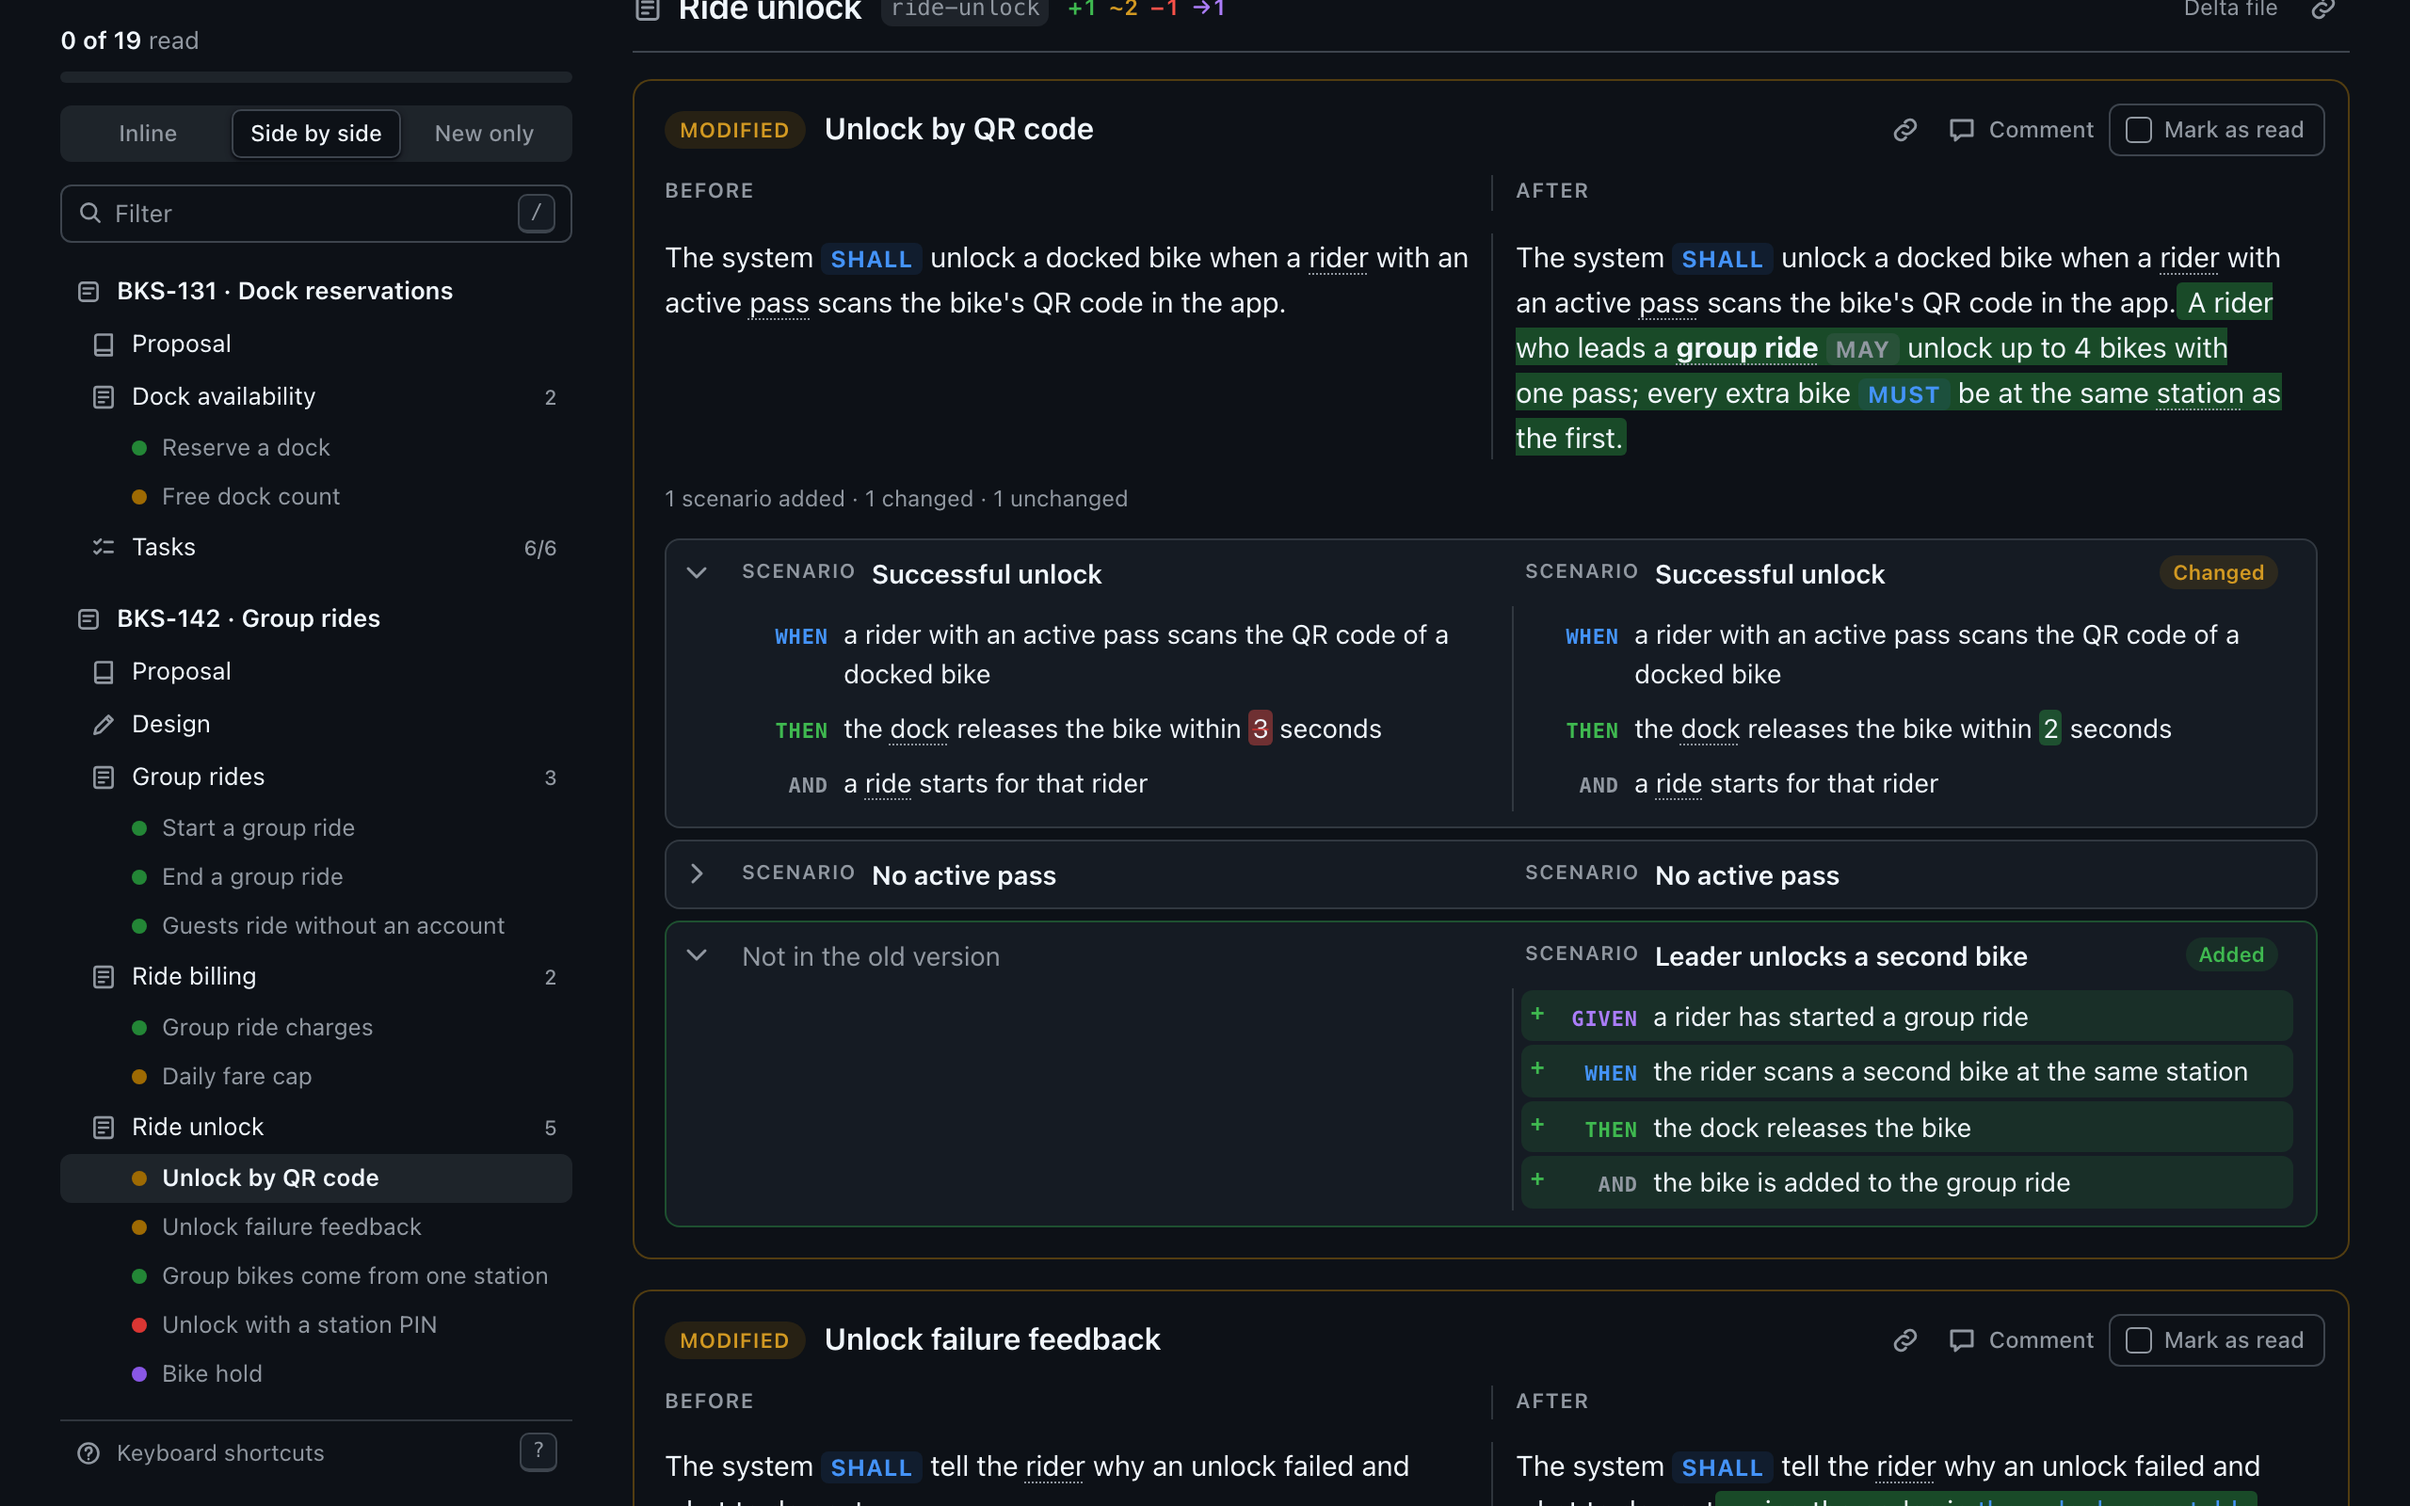
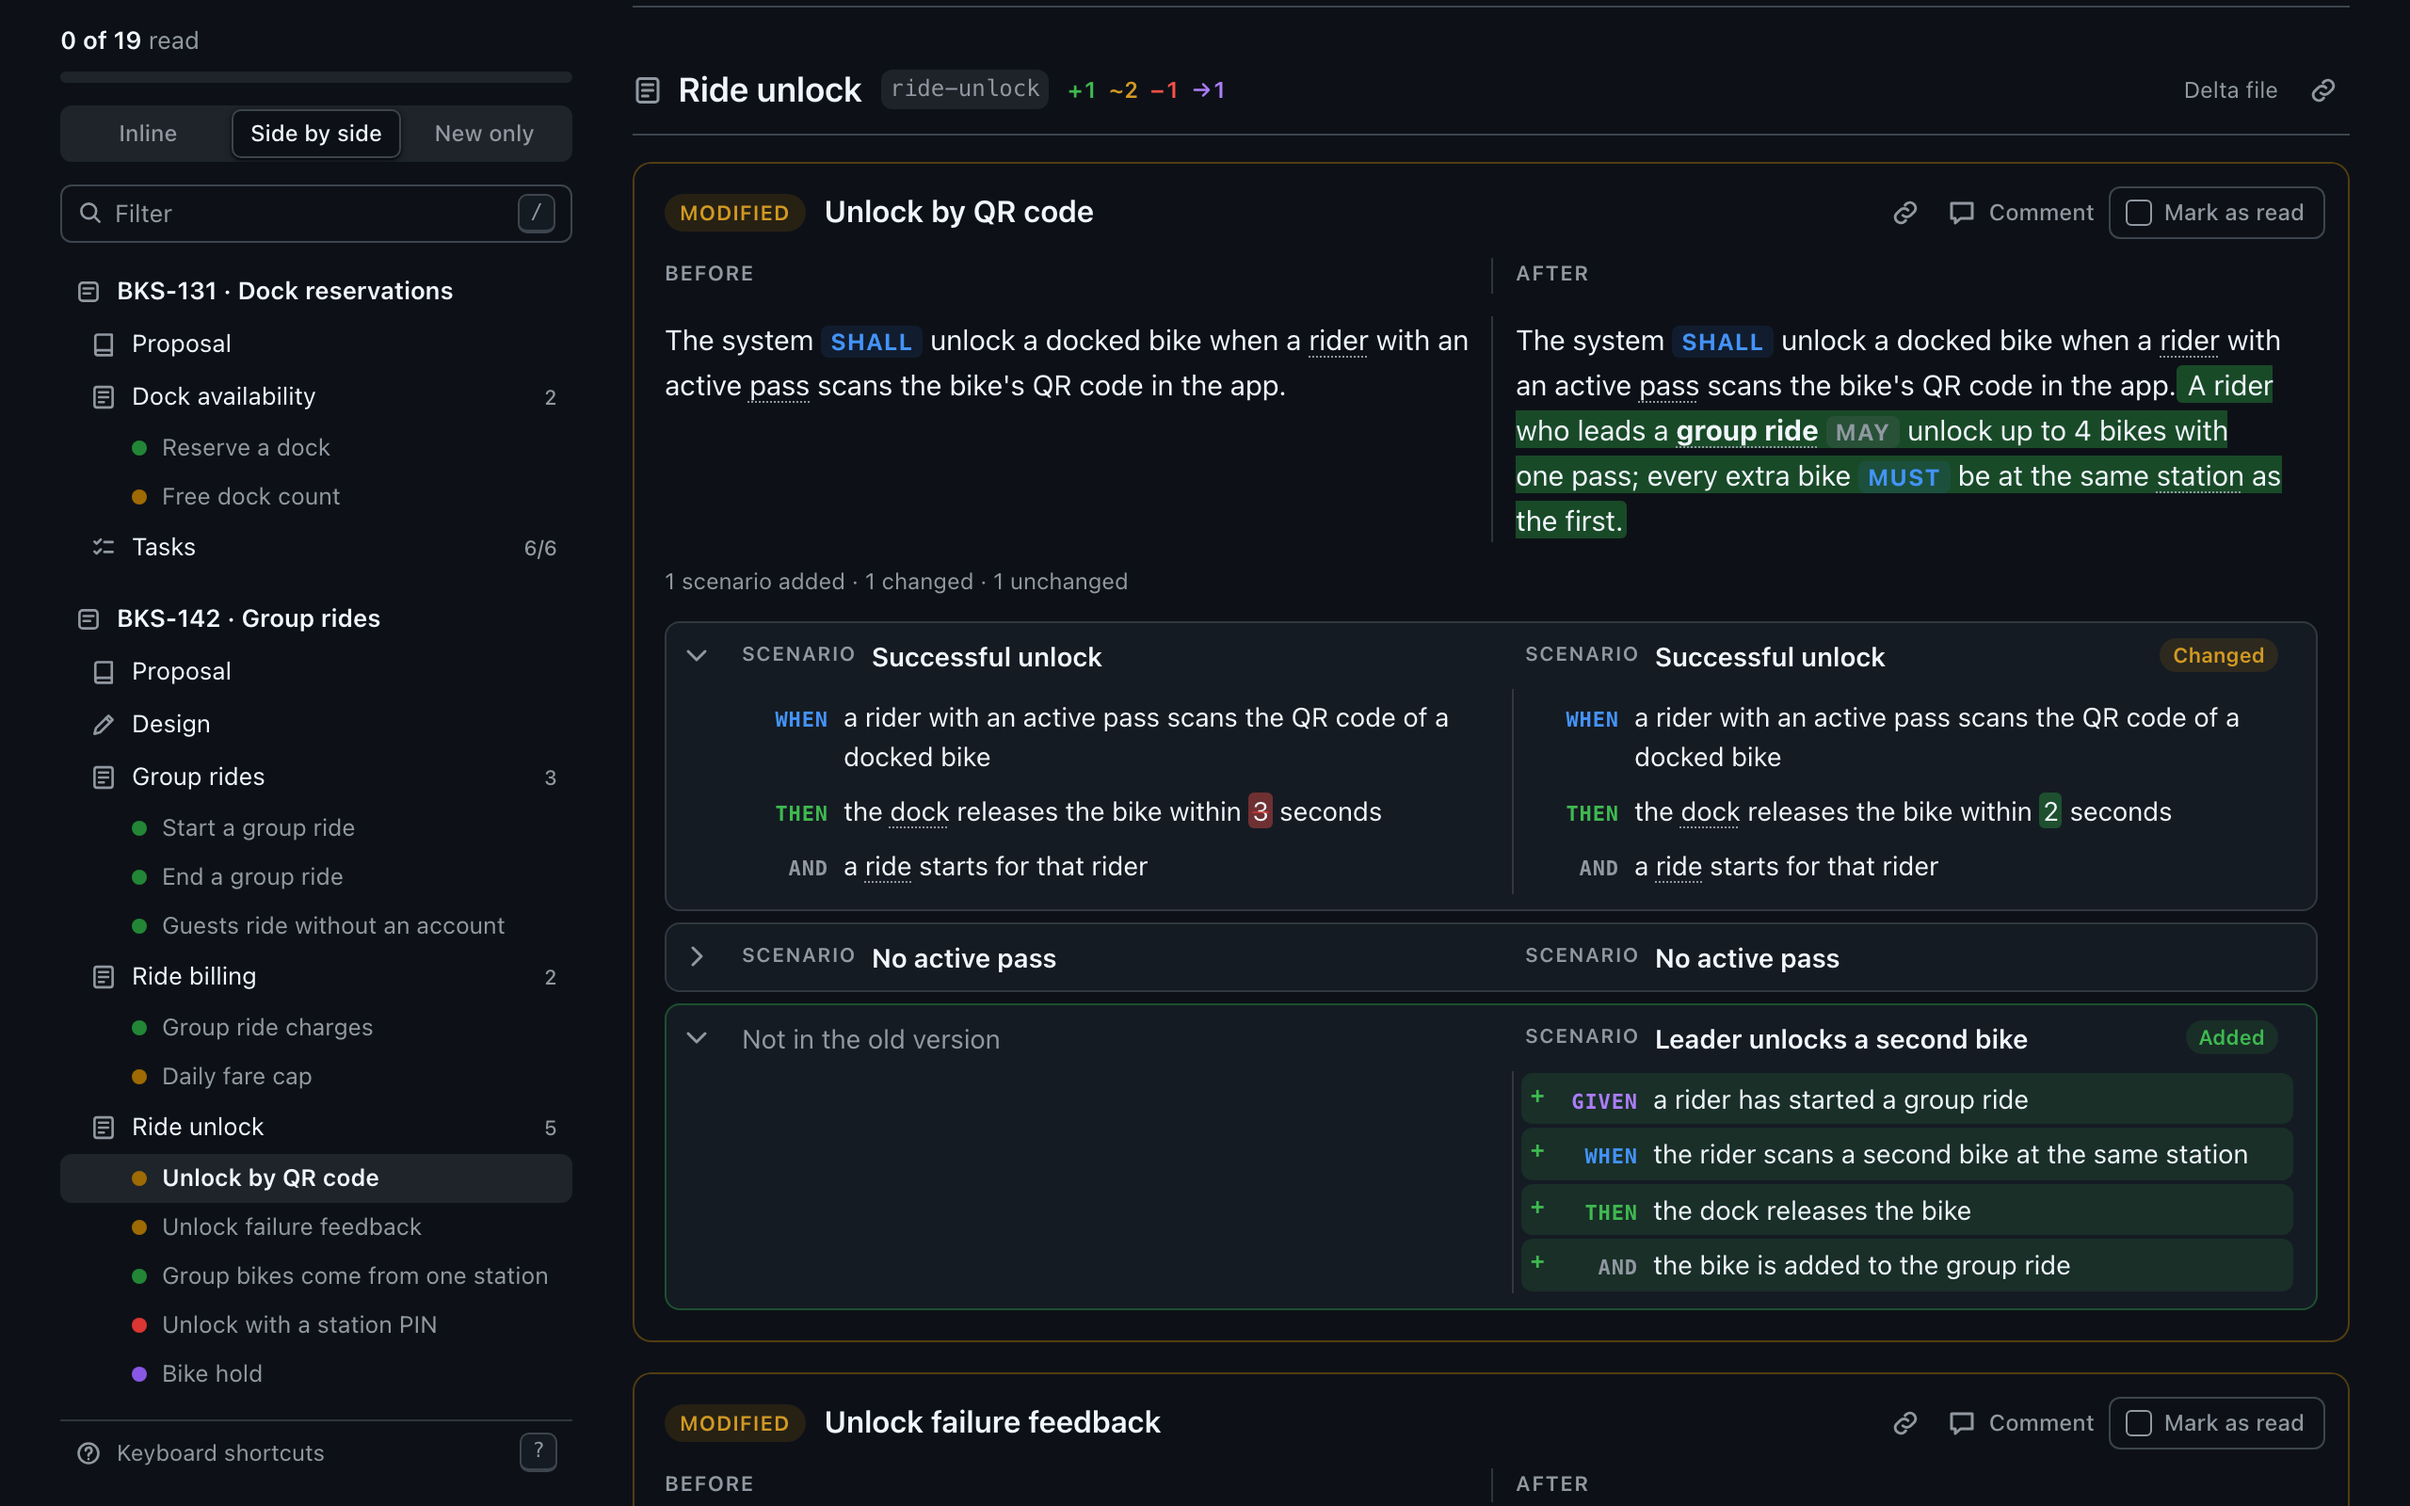
Keep section and requirement headers in view while scrolling
The header of a section (Proposal, Design, a capability, Tasks) now
sticks to the top of the window while that section is being read, and
the header of a requirement sticks right below its capability's header,
so its name, "Comment" and "Mark as read" stay in reach. A line appears
under a requirement's header only while it is stuck.

- The capability header publishes its height to the section, so the
  requirement headers sit below it whatever it wraps to.
- A jump to a requirement stops below the section header instead of
  under it, and the outline's highlight follows the same line.
- The smoke test checks on the live site that both headers stay in view
  and that nothing of GitHub's covers them.

diff --git a/scripts/smoke.ts b/scripts/smoke.ts
@@ -79,6 +79,31 @@ try {
   if (await firstCard.count()) {
     await firstCard.scrollIntoViewIfNeeded();
     await page.screenshot({ path: join(out, '3-requirements.png') });
+    // Scroll into the card: its section's header and its own header must stay in view,
+    // which GitHub's page could prevent (a clipping ancestor, a sticky bar of its own).
+    await firstCard.evaluate((card) => {
+      window.scrollTo({ top: window.scrollY + card.getBoundingClientRect().top - 20 });
+    });
+    await page.waitForTimeout(300);
+    // Where a header sits, and "covered" when something of GitHub's is painted over it.
+    // (Kept free of inner functions: tsx wraps those in a helper the page does not have.)
+    const place = (selector: string) =>
+      firstCard.evaluate((card, query) => {
+        const element =
+          query === '.section-head'
+            ? card.closest('.section')?.querySelector(query)
+            : card.querySelector(query);
+        if (!element) return 'missing';
+        const rect = element.getBoundingClientRect();
+        const top = document.elementFromPoint(rect.left + 40, rect.top + rect.height / 2);
+        return `${Math.round(rect.top)}${top?.tagName === 'OPENSPEC-TAB' ? '' : ' covered'}`;
+      }, selector);
+    const heads = { section: await place('.section-head'), head: await place('.req-head') };
+    check(
+      `headers stay in view while scrolling (section at ${heads.section}, requirement at ${heads.head})`,
+      heads.section === '0' && /^\d+$/.test(heads.head) && Number(heads.head) > 0,
+    );
+    await page.screenshot({ path: join(out, '3b-sticky-headers.png') });
     const comment = page.locator('openspec-tab .req a.icon-button.has-label').first();
     check(
       `requirement links to its source (${(await comment.getAttribute('href'))?.split('#')[1]?.slice(0, 16)}…)`,

diff --git a/src/ui/styles.css b/src/ui/styles.css
@@ -695,13 +695,20 @@ button.flag:hover {
   min-width: 0;
 }
 
+/* Stays at the top of the window while its section is being read. The space above the
+   title is for when it is stuck; the negative margin keeps it where it was when it is not. */
 .section-head {
+  position: sticky;
+  top: 0;
+  z-index: 3;
   display: flex;
   flex-wrap: wrap;
   gap: 8px 10px;
   align-items: center;
-  min-height: 40px;
-  padding-bottom: 8px;
+  min-height: 48px;
+  padding-block: 8px;
+  margin-top: -8px;
+  background: var(--bg);
   border-bottom: 1px solid var(--border);
 }
 
@@ -905,12 +912,36 @@ button.flag:hover {
   border-color: var(--borderColor-done-muted, #c297ff66);
 }
 
+/* Sticks right below its section's header, so the requirement being read keeps its name
+   and its actions in view. */
 .req-head {
+  position: sticky;
+  top: var(--section-head-height, 48px);
+  z-index: 2;
   display: flex;
   flex-wrap: wrap;
   gap: 6px 10px;
   align-items: center;
-  padding: 12px 12px 0 16px;
+  padding: 12px 12px 8px 16px;
+  background: inherit;
+  border-radius: 9px 9px 0 0;
+  container: req-head / scroll-state;
+}
+
+/* A line under the header only while it is stuck and the card scrolls beneath it. */
+@container req-head scroll-state(stuck: top) {
+  .req-head::after {
+    position: absolute;
+    inset: auto 0 0;
+    height: 1px;
+    content: '';
+    background: var(--border);
+  }
+}
+
+/* A jump to a requirement stops below the section header, not under it. */
+.req[data-item] {
+  scroll-margin-top: calc(var(--section-head-height, 48px) + 12px);
 }
 
 .req-head h4 {
@@ -933,11 +964,11 @@ button.flag:hover {
   display: flex;
   flex-direction: column;
   gap: 12px;
-  padding: 10px 16px 16px;
+  padding: 2px 16px 16px;
 }
 
 .req-body:empty {
-  padding-top: 4px;
+  padding-block: 0 12px;
 }
 
 .old-name {

diff --git a/src/ui/components/common.tsx b/src/ui/components/common.tsx
@@ -1,4 +1,4 @@
-import { type ReactNode, useEffect, useRef, useState } from 'react';
+import { type ReactNode, type RefObject, useEffect, useRef, useState } from 'react';
 import { deepLink } from '@/github/route';
 import type { Counts, Operation, Problem } from '@/openspec';
 import { usePull, useReview } from '../context';
@@ -160,6 +160,26 @@ export function ProgressBar({
       <span style={{ transform: `scaleX(${fraction})` }} />
     </div>
   );
+}
+
+/**
+ * Tells a section how tall its sticky header is, as `--section-head-height` on
+ * the section, so the requirement headers inside can stick right below it
+ * whatever the header wraps to.
+ */
+export function useHeadHeight(head: RefObject<HTMLElement | null>): void {
+  useEffect(() => {
+    const element = head.current;
+    const section = element?.parentElement;
+    if (!element || !section || typeof ResizeObserver === 'undefined') return;
+    const publish = () =>
+      section.style.setProperty('--section-head-height', `${element.offsetHeight}px`);
+    // Once now, so a jump made on load already lands below the header.
+    publish();
+    const observer = new ResizeObserver(publish);
+    observer.observe(element);
+    return () => observer.disconnect();
+  }, [head]);
 }
 
 /** A titled section of a change, with its anchor, deep link and read toggle. */

diff --git a/src/ui/components/Capability.tsx b/src/ui/components/Capability.tsx
@@ -1,18 +1,29 @@
+import { useRef } from 'react';
 import { blobUrl } from '@/github/route';
 import type { CapabilityView } from '@/openspec';
 import { usePull } from '../context';
 import { ChevronIcon, SpecIcon } from '../icons';
 import { Markdown, TermScope } from '../markdown/Markdown';
-import { Callout, CopyLink, CountChips, isCompact, ProblemList, plural } from './common';
+import {
+  Callout,
+  CopyLink,
+  CountChips,
+  isCompact,
+  ProblemList,
+  plural,
+  useHeadHeight,
+} from './common';
 import { RequirementBody, RequirementCard } from './Requirement';
 
 /** One capability's spec: its changed requirements as cards, the rest folded away. */
 export function CapabilitySection({ view }: { view: CapabilityView }) {
   const { data } = usePull();
   const sourcePath = view.deltaPath ?? view.specPath;
+  const head = useRef<HTMLElement>(null);
+  useHeadHeight(head);
   return (
     <section className="section capability" data-item={view.id} data-nav="">
-      <header className="section-head">
+      <header className="section-head" ref={head}>
         <h3>
           <SpecIcon />
           <span>{view.label}</span>

diff --git a/src/ui/App.tsx b/src/ui/App.tsx
@@ -175,7 +175,10 @@ function Ready({
       }
       let active = items[0];
       for (const item of items) {
-        if (item.getBoundingClientRect().top <= 48) active = item;
+        // An item counts once it is near where a jump would put it: under the window's top
+        // edge, or under the sticky header of the section it is in.
+        const line = (Number.parseFloat(getComputedStyle(item).scrollMarginTop) || 0) + 32;
+        if (item.getBoundingClientRect().top <= line) active = item;
         else break;
       }
       setCurrent(active?.dataset.item ?? null);

diff --git a/scripts/screenshots.ts b/scripts/screenshots.ts
@@ -77,6 +77,15 @@ const SHOTS: Shot[] = [
   },
   { name: 'new-capability', target: `${GROUP_RIDES}/spec/group-rides` },
   {
+    // Scrolled into a card: the section's header and the card's own header stay at the top.
+    name: 'sticky-headers',
+    target: `${GROUP_RIDES}/spec/ride-unlock/unlock-by-qr-code`,
+    async prepare(page) {
+      await page.mouse.move(800, 400);
+      await page.mouse.wheel(0, 260);
+    },
+  },
+  {
     name: 'unchanged-requirements',
     target: `${GROUP_RIDES}/spec/ride-billing/daily-fare-cap`,
     async prepare(page) {

diff --git a/README.md b/README.md
@@ -67,6 +67,7 @@ This tab reads the same files and shows them the way a reviewer thinks about the
 - **Glossary on hover:** if the repository has `docs/CONTEXT.md` (or `CONTEXT.md`), its terms are underlined and show their definition. Words the glossary says to avoid are underlined differently.
 - **Format problems, inline:** a requirement with no scenario, a `MODIFIED` requirement that matches nothing in the base spec, a `FROM:` without a `TO:`. A file that cannot be read as OpenSpec is shown as plain rendered Markdown.
 - **A sticky outline** with a filter and keyboard navigation.
+- **Headers that stay in view:** the header of the section you are in, and of the requirement you are reading, stick to the top while you scroll, with "Comment" and "Mark as read" in reach.
 - **GitHub's own look:** the tab uses GitHub's colours, so it follows the light, dark and dimmed themes.
 
 <table>
